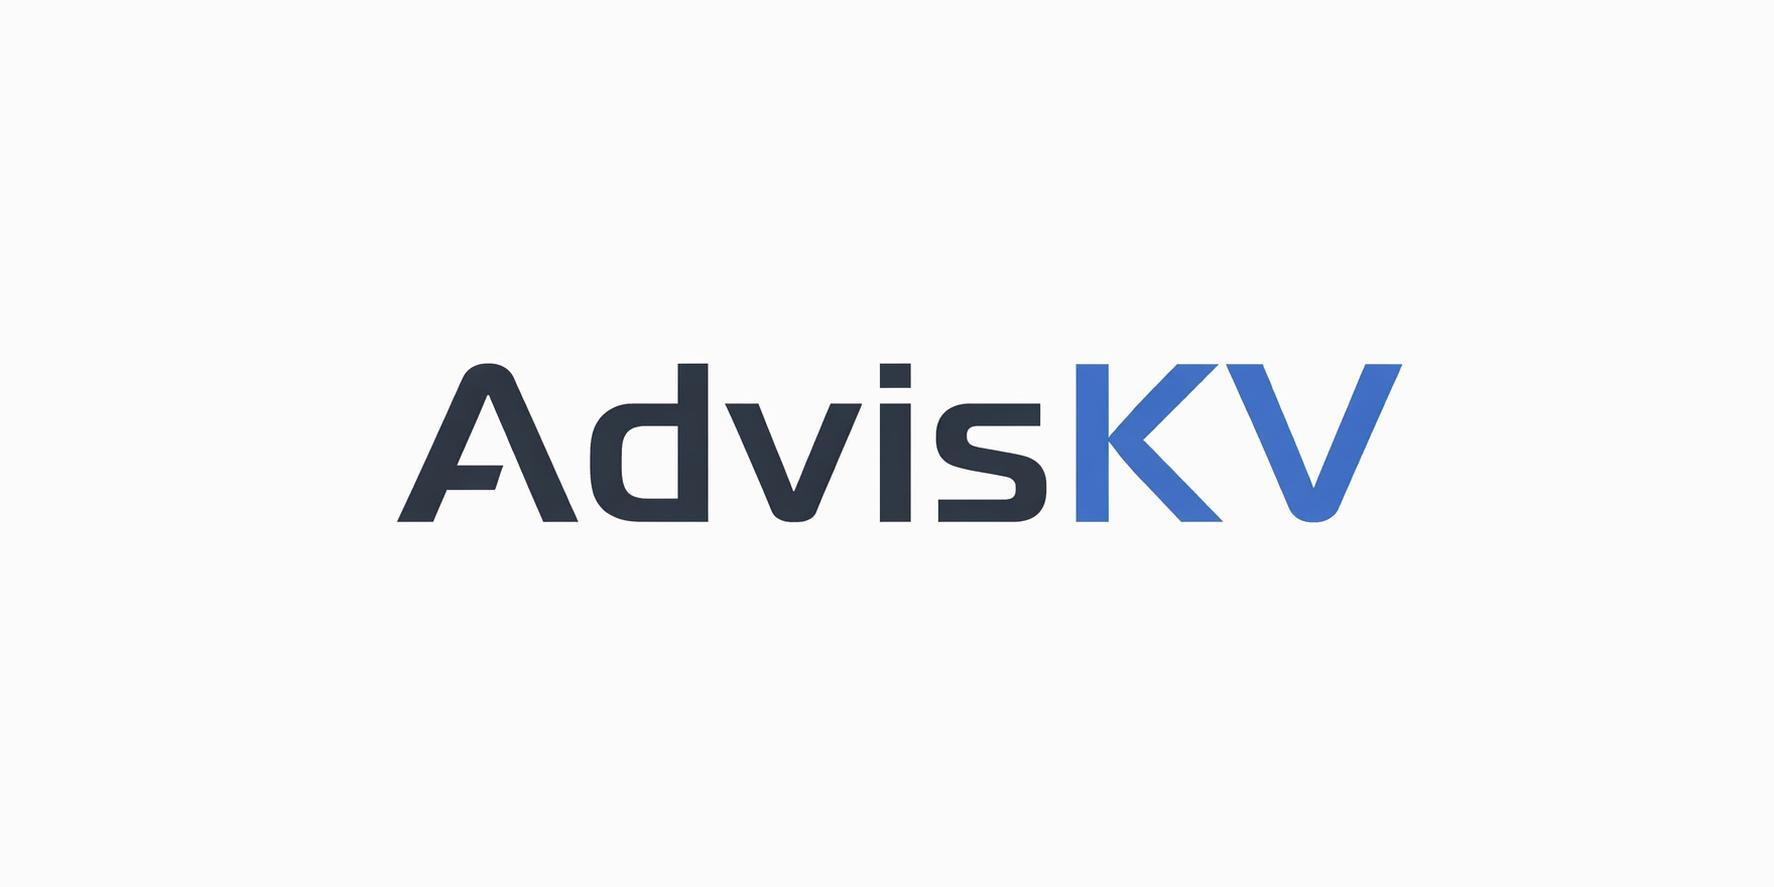
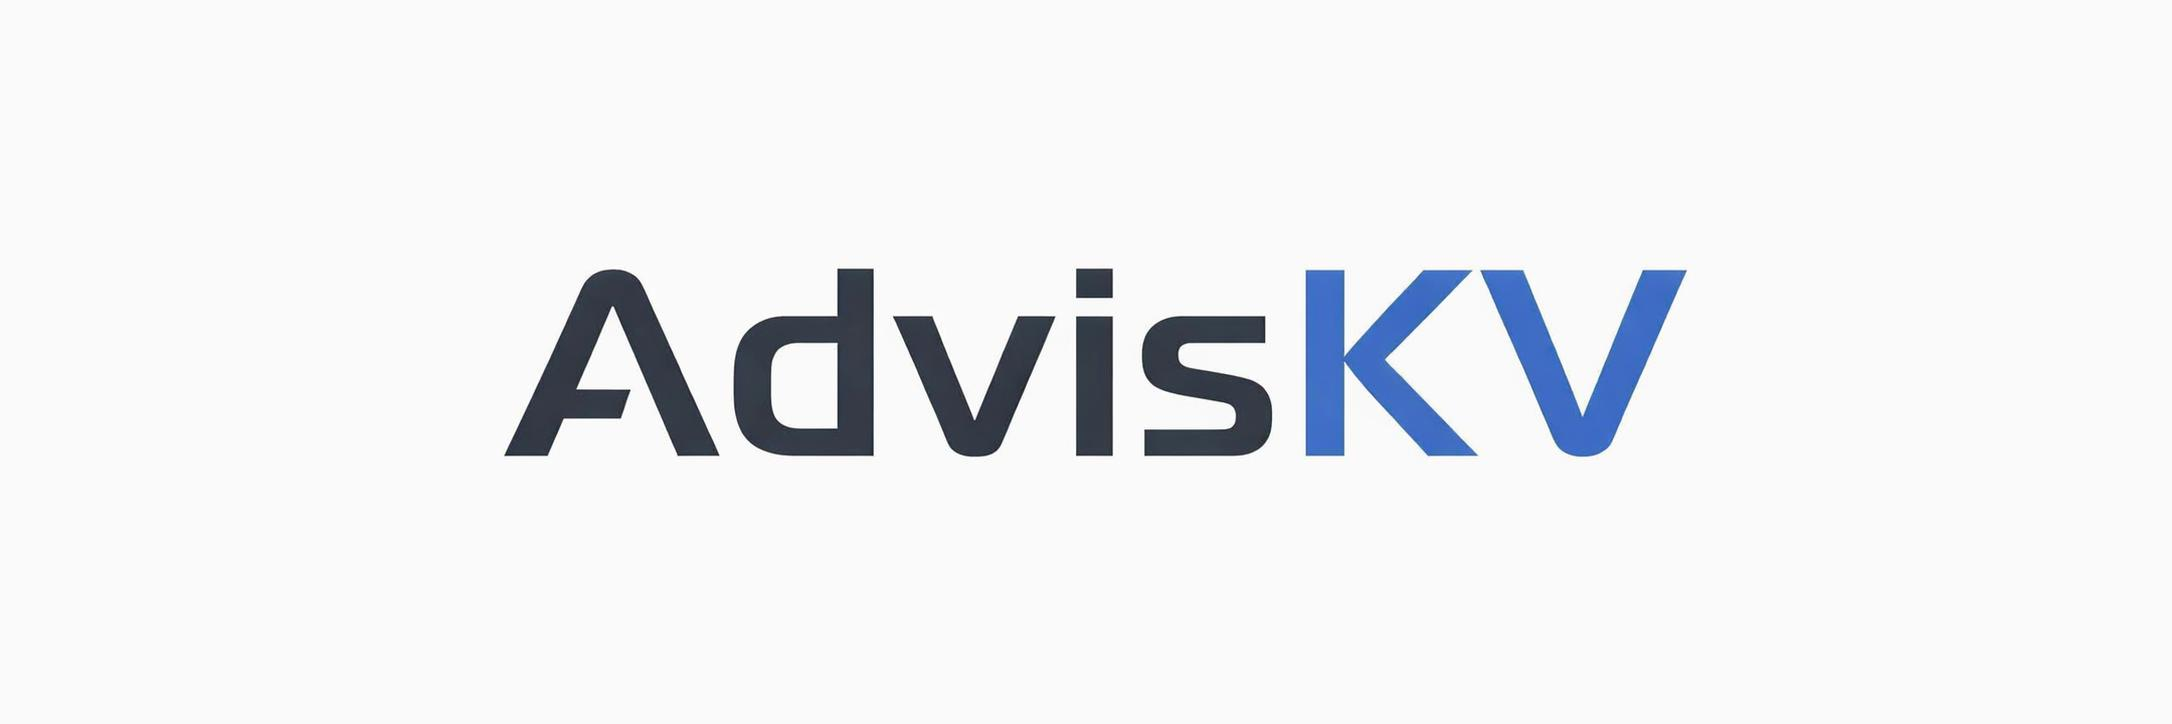
update badges

Changed region(s): [[0.4651, 0.3646, 0.8061, 0.6381], [0.217, 0.3646, 0.4961, 0.6381]]

diff --git a/README.md b/README.md
@@ -4,6 +4,13 @@
   <img src="docs/asserts/adviskv.jpeg" alt="AdvisKV banner" width="960" />
 </p>
 
+<p align="center">
+  <img src="https://img.shields.io/badge/C%2B%2B-17-00599C?logo=c%2B%2B&logoColor=white" alt="C++17" />
+  <a href="LICENSE"><img src="https://img.shields.io/badge/License-MIT-green.svg" alt="MIT License" /></a>
+  <img src="https://img.shields.io/badge/Platform-macOS%20%7C%20Linux-2ea44f" alt="Platform macOS and Linux" />
+  <img src="https://img.shields.io/badge/Version-v0.1-blue" alt="Version v0.1" />
+</p>
+
 AdvisKV 是一个使用 **C++17 + gRPC + Protobuf + Raft** 实现的分布式 Key-Value 存储项目。项目采用控制面与数据面拆分的架构：`Meta` 负责 DDL 与 catalog，`SDM` 负责部署、路由、节点与副本状态管理，`Storage` 负责 KV 数据读写、Raft 复制和本地持久化，`SDK` 对外提供基于 `db + table + key` 的访问接口。
 
 当前项目是一个可构建、可运行、可测试、持续演进中的分布式 KV 系统原型。它已经具备建库、建表、路由解析、KV 读写、Raft 副本、WAL、snapshot、恢复、单测、E2E 和 benchmark 客户端等主干能力；尚未完成控制面高可用、动态扩缩容、Raft config change、自动 rebalance 等生产级能力。